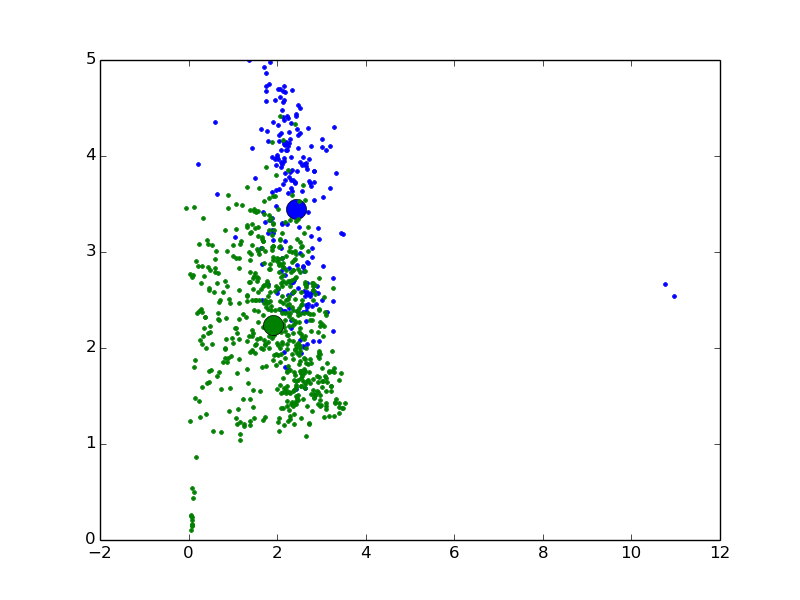
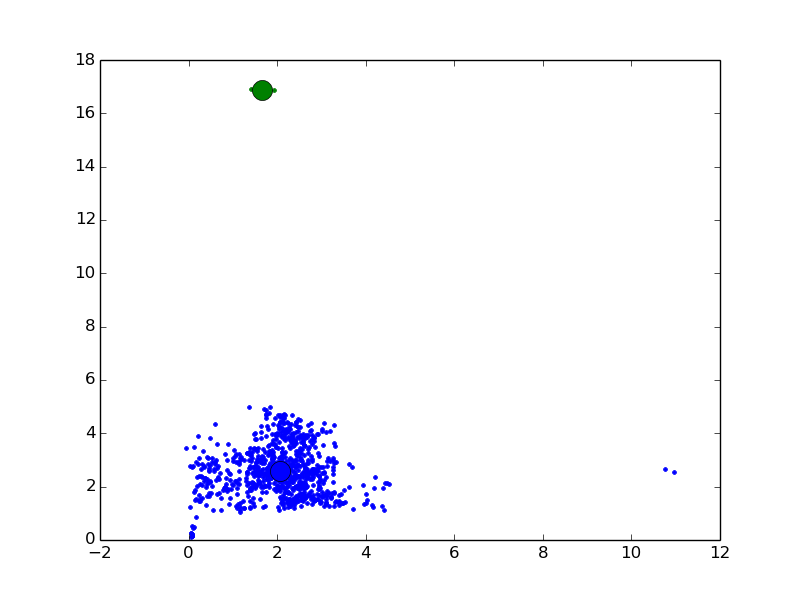
x

diff --git a/main.py b/main.py
@@ -217,12 +217,11 @@ def main(argv):
         clf = ExtraTreesClassifier()
         selector = clf.fit(walking_data_set, walking_labels)
     if sel == "3":
-        selector = LinearSVC(C=0.01, penalty="l1", dual=False).fit_transform(walking_data_set, walking_labels)
+        selector = LinearSVC(C=0.01, penalty="l1", dual=False).fit(walking_data_set, walking_labels)
     if sel == "4":
         selector = None
 
     if selector is not None:
-        selector = SelectKBest(f_classif, k=30).fit(walking_data_set, walking_labels)
         walking_data_set = selector.transform(walking_data_set)
         test_data_set = selector.transform(test_data_set)
     print "Training personal classifier."
